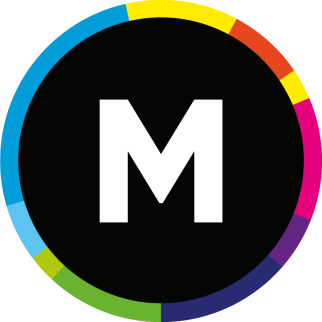
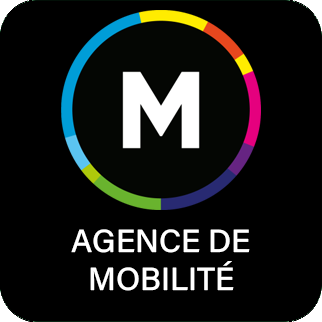
Version 4.0.1
Quoi de nouveau ?
- Les images de correspondances dans la page index.php étaient gérées dans le CSS en pixels. Les valeurs ont été  changées en VH pour éviter des bugs avec les écrans n'étant pas en 1920*1080.
- Logo de l'agence de mobilité mis à jour.

diff --git a/style.css b/style.css
@@ -194,7 +194,7 @@ a:visited{
     color: white;
     position: fixed;
     bottom: 0.5vh;
-    left: 1.5vw;
+    left: 2vw;
     font-size: 4vw;
     font-weight: bold;
 }
@@ -211,8 +211,8 @@ a:visited{
 }
 
 .imagecorresp{
-    height: 117.766px;
-    width: 117.766px;
+    height: 11vh;
+    width: 11vh;
     margin-top: 25px;
     margin-left: 15px;
 }
